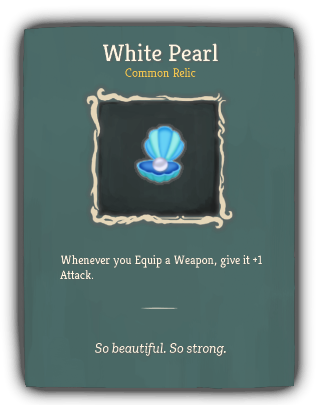
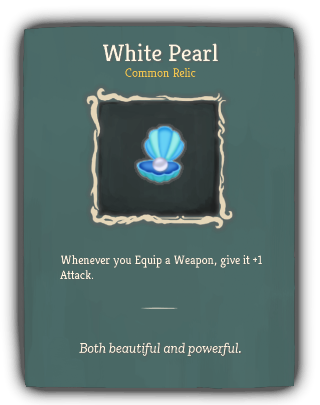
v.1.5.1 - Two new Weapon Relics.

Changed region(s): [[0.25, 0.8296, 0.75, 0.8889]]

diff --git a/exported/index.html b/exported/index.html
@@ -997,6 +997,17 @@
     </tr>
 
     <tr>
+        <td><a href="relics/popup/blackbeard-Spearhead.png">Spearhead</a></td>
+        <td><img src="relics/blackbeard-Spearhead.png" width="128" height="128"><a
+                href="relics/popup/blackbeard-Spearhead.png"><img src="relics/small-popup/blackbeard-Spearhead.png"
+                                                                  class="popup"></a></td>
+        <td>Common</td>
+        <td>Blackbeard_black</td>
+        <td>If a Weapon has 1 Durability, it deals 3 damage more.</td>
+        <td>The durability of your Weapon ends... and so does the life of your enemy.</td>
+    </tr>
+
+    <tr>
         <td><a href="relics/popup/blackbeard-TreasureChest.png">Treasure Chest</a></td>
         <td><img src="relics/blackbeard-TreasureChest.png" width="128" height="128"><a
                 href="relics/popup/blackbeard-TreasureChest.png"><img
@@ -1015,7 +1026,20 @@
         <td>Common</td>
         <td>Blackbeard_black</td>
         <td>Whenever you Equip a Weapon, give it +1 Attack.</td>
-        <td>So beautiful. So strong.</td>
+        <td>Both beautiful and powerful.</td>
+    </tr>
+
+    <tr>
+        <td><a href="relics/popup/blackbeard-DualWielding.png">Dual Wielding</a></td>
+        <td><img src="relics/blackbeard-DualWielding.png" width="128" height="128"><a
+                href="relics/popup/blackbeard-DualWielding.png"><img
+                src="relics/small-popup/blackbeard-DualWielding.png" class="popup"></a></td>
+        <td>Uncommon</td>
+        <td>Blackbeard_black</td>
+        <td>Your attacks now use two rightmost Weapons.</td>
+        <td>Blackbeard's right arm is much stronger than his left arm. But when in need he can dual wield Weapons with
+            ease.
+        </td>
     </tr>
 
     <tr>

diff --git a/exported/relics.html b/exported/relics.html
@@ -52,6 +52,17 @@
     </tr>
 
     <tr>
+        <td><a href="relics/popup/blackbeard-Spearhead.png">Spearhead</a></td>
+        <td><img src="relics/blackbeard-Spearhead.png" width="128" height="128"><a
+                href="relics/popup/blackbeard-Spearhead.png"><img src="relics/small-popup/blackbeard-Spearhead.png"
+                                                                  class="popup"></a></td>
+        <td>Common</td>
+        <td>Blackbeard_black</td>
+        <td>If a Weapon has 1 Durability, it deals 3 damage more.</td>
+        <td>The durability of your Weapon ends... and so does the life of your enemy.</td>
+    </tr>
+
+    <tr>
         <td><a href="relics/popup/blackbeard-TreasureChest.png">Treasure Chest</a></td>
         <td><img src="relics/blackbeard-TreasureChest.png" width="128" height="128"><a
                 href="relics/popup/blackbeard-TreasureChest.png"><img
@@ -70,7 +81,20 @@
         <td>Common</td>
         <td>Blackbeard_black</td>
         <td>Whenever you Equip a Weapon, give it +1 Attack.</td>
-        <td>So beautiful. So strong.</td>
+        <td>Both beautiful and powerful.</td>
+    </tr>
+
+    <tr>
+        <td><a href="relics/popup/blackbeard-DualWielding.png">Dual Wielding</a></td>
+        <td><img src="relics/blackbeard-DualWielding.png" width="128" height="128"><a
+                href="relics/popup/blackbeard-DualWielding.png"><img
+                src="relics/small-popup/blackbeard-DualWielding.png" class="popup"></a></td>
+        <td>Uncommon</td>
+        <td>Blackbeard_black</td>
+        <td>Your attacks now use two rightmost Weapons.</td>
+        <td>Blackbeard's right arm is much stronger than his left arm. But when in need he can dual wield Weapons with
+            ease.
+        </td>
     </tr>
 
     <tr>

diff --git a/src/main/java/blackbeard/powers/WeaponPower.java b/src/main/java/blackbeard/powers/WeaponPower.java
@@ -2,6 +2,7 @@ package blackbeard.powers;
 
 import blackbeard.enums.WeaponsToUseEnum;
 import blackbeard.orbs.WeaponOrb;
+import blackbeard.relics.DualWielding;
 import com.megacrit.cardcrawl.actions.common.RemoveSpecificPowerAction;
 import com.megacrit.cardcrawl.actions.utility.UseCardAction;
 import com.megacrit.cardcrawl.cards.AbstractCard;
@@ -44,14 +45,25 @@ public class WeaponPower extends AbstractPower {
             WeaponsToUseEnum weaponsToUse = WeaponsToUseEnum.ONLY_RIGHTMOST_WEAPON;
             if (AbstractDungeon.player.hasPower(SwordDancePower.POWER_ID)) {
                 weaponsToUse = WeaponsToUseEnum.ALL_WEAPONS;
+            } else if (AbstractDungeon.player.hasRelic(DualWielding.ID)) {
+                weaponsToUse = WeaponsToUseEnum.TWO_WEAPONS;
             }
+            int weaponsUsedCounter = 0;
             for (AbstractOrb o : AbstractDungeon.player.orbs) {
                 if (o instanceof WeaponOrb) {
                     WeaponOrb weaponOrb = (WeaponOrb) o;
                     if (!weaponOrb.isJustAddedUsingAttackCard()) {
                         weaponOrb.use();
+                        weaponsUsedCounter++;
                     }
                     if (weaponsToUse.equals(WeaponsToUseEnum.ONLY_RIGHTMOST_WEAPON)) {
+                        break;
+                    }
+                    if (weaponsToUse.equals(WeaponsToUseEnum.TWO_WEAPONS) && weaponsUsedCounter == 2) {
+                        DualWielding dualWielding = (DualWielding) AbstractDungeon.player.getRelic(DualWielding.ID);
+                        if (dualWielding != null) {
+                            dualWielding.flash();
+                        }
                         break;
                     }
                 }
@@ -140,14 +152,21 @@ public class WeaponPower extends AbstractPower {
             WeaponsToUseEnum weaponsToUse = WeaponsToUseEnum.ONLY_RIGHTMOST_WEAPON;
             if (AbstractDungeon.player.hasPower(SwordDancePower.POWER_ID)) {
                 weaponsToUse = WeaponsToUseEnum.ALL_WEAPONS;
+            } else if (AbstractDungeon.player.hasRelic(DualWielding.ID)) {
+                weaponsToUse = WeaponsToUseEnum.TWO_WEAPONS;
             }
 
             int weaponAttack = 0;
+            int weaponsUsedCounter = 0;
             for (AbstractOrb o : AbstractDungeon.player.orbs) {
                 if (o instanceof WeaponOrb) {
                     WeaponOrb weaponOrb = (WeaponOrb) o;
-                    weaponAttack += weaponOrb.getAttack();
+                    weaponAttack += weaponOrb.getDamageToDeal();
+                    weaponsUsedCounter++;
                     if (weaponsToUse.equals(WeaponsToUseEnum.ONLY_RIGHTMOST_WEAPON)) {
+                        break;
+                    }
+                    if (weaponsToUse.equals(WeaponsToUseEnum.TWO_WEAPONS) && weaponsUsedCounter == 2) {
                         break;
                     }
                 }

diff --git a/src/main/java/blackbeard/orbs/WeaponOrb.java b/src/main/java/blackbeard/orbs/WeaponOrb.java
@@ -2,6 +2,7 @@ package blackbeard.orbs;
 
 import blackbeard.powers.ArmorUpPower;
 import blackbeard.powers.SalvagerPower;
+import blackbeard.relics.Spearhead;
 import com.badlogic.gdx.graphics.Color;
 import com.badlogic.gdx.graphics.g2d.SpriteBatch;
 import com.megacrit.cardcrawl.actions.common.GainBlockAction;
@@ -88,6 +89,14 @@ public abstract class WeaponOrb extends AbstractOrb {
 
     public int getDurability() {
         return durability;
+    }
+
+    public int getDamageToDeal() {
+        int additionalAttack = 0;
+        if (AbstractDungeon.player.hasRelic(Spearhead.ID) && durability == 1) {
+            additionalAttack += 3;
+        }
+        return attack + additionalAttack;
     }
 
     public boolean isJustAddedUsingAttackCard() {

diff --git a/src/main/java/blackbeard/relics/Spearhead.java b/src/main/java/blackbeard/relics/Spearhead.java
@@ -1,0 +1,20 @@
+package blackbeard.relics;
+
+import basemod.abstracts.CustomRelic;
+import blackbeard.TheBlackbeardMod;
+import com.badlogic.gdx.graphics.Texture;
+
+public class Spearhead extends CustomRelic {
+    public static final String ID = "blackbeard:Spearhead";
+
+    public Spearhead() {
+        super(ID, new Texture(TheBlackbeardMod.getRelicImagePath(ID)), new Texture(TheBlackbeardMod.getRelicOutlineImagePath(ID)), RelicTier.COMMON, LandingSound.MAGICAL);
+    }
+
+    /* Logic is in WeaponOrb::getDamageToDeal. */
+
+    @Override
+    public String getUpdatedDescription() {
+        return DESCRIPTIONS[0];
+    }
+}

diff --git a/src/main/java/blackbeard/relics/DualWielding.java b/src/main/java/blackbeard/relics/DualWielding.java
@@ -1,0 +1,20 @@
+package blackbeard.relics;
+
+import basemod.abstracts.CustomRelic;
+import blackbeard.TheBlackbeardMod;
+import com.badlogic.gdx.graphics.Texture;
+
+public class DualWielding extends CustomRelic {
+    public static final String ID = "blackbeard:DualWielding";
+
+    public DualWielding() {
+        super(ID, new Texture(TheBlackbeardMod.getRelicImagePath(ID)), new Texture(TheBlackbeardMod.getRelicOutlineImagePath(ID)), RelicTier.UNCOMMON, LandingSound.MAGICAL);
+    }
+
+    /* Logic is in WeaponPower. */
+
+    @Override
+    public String getUpdatedDescription() {
+        return DESCRIPTIONS[0];
+    }
+}

diff --git a/src/main/java/blackbeard/actions/DaggerAction.java b/src/main/java/blackbeard/actions/DaggerAction.java
@@ -24,7 +24,7 @@ public class DaggerAction extends AbstractGameAction {
     public void update() {
         if (this.duration == Settings.ACTION_DUR_FAST) {
 
-            AbstractDungeon.actionManager.addToBottom(new SwordBoomerangAction(AbstractDungeon.getMonsters().getRandomMonster(true), new DamageInfo(p, daggerOrb.getAttack(), DamageInfo.DamageType.THORNS), 1));
+            AbstractDungeon.actionManager.addToBottom(new SwordBoomerangAction(AbstractDungeon.getMonsters().getRandomMonster(true), new DamageInfo(p, daggerOrb.getDamageToDeal(), DamageInfo.DamageType.THORNS), 1));
 
             daggerOrb.use();
 

diff --git a/src/main/java/blackbeard/TheBlackbeardMod.java b/src/main/java/blackbeard/TheBlackbeardMod.java
@@ -170,6 +170,8 @@ public class TheBlackbeardMod implements PostInitializeSubscriber,
         BaseMod.addRelicToCustomPool(new PoorMathSkills(), AbstractCardEnum.BLACKBEARD_BLACK);
         BaseMod.addRelicToCustomPool(new PowderCan(), AbstractCardEnum.BLACKBEARD_BLACK);
         BaseMod.addRelicToCustomPool(new Soberminded(), AbstractCardEnum.BLACKBEARD_BLACK);
+        BaseMod.addRelicToCustomPool(new Spearhead(), AbstractCardEnum.BLACKBEARD_BLACK);
+        BaseMod.addRelicToCustomPool(new DualWielding(), AbstractCardEnum.BLACKBEARD_BLACK);
 
         logger.info("Done editing relics");
     }

diff --git a/src/main/java/blackbeard/enums/WeaponsToUseEnum.java b/src/main/java/blackbeard/enums/WeaponsToUseEnum.java
@@ -1,5 +1,5 @@
 package blackbeard.enums;
 
 public enum WeaponsToUseEnum {
-    ALL_WEAPONS, ONLY_RIGHTMOST_WEAPON;
+    ALL_WEAPONS, TWO_WEAPONS, ONLY_RIGHTMOST_WEAPON;
 }

diff --git a/exported/index.md b/exported/index.md
@@ -100,8 +100,10 @@
 | ![](relics/blackbeard-LoadTheCannons.png) | Load The Cannons | Starter | Blackbeard_black | At the start of each combat, add a Cannonball card to your hand. | Ready... Aim... Fire!!! |
 | ![](relics/blackbeard-CannonballsOfSteel.png) | Cannonballs Of Steel | Common | Blackbeard_black | Your Cannonballs deal #b2 more damage. (Works with every type of Cannonball.) | Much stronger than regular cannonballs. |
 | ![](relics/blackbeard-HipFlask.png) | HipFlask | Common | Blackbeard_black | At the start of each combat, gain #b1 Resistance. | Very handy. |
+| ![](relics/blackbeard-Spearhead.png) | Spearhead | Common | Blackbeard_black | If a Weapon has 1 Durability, it deals 3 damage more. | The durability of your Weapon ends... and so does the life of your enemy. |
 | ![](relics/blackbeard-TreasureChest.png) | Treasure Chest | Common | Blackbeard_black | Gain 20 Gold after every battle. | This treasure chest contains untold riches. |
-| ![](relics/blackbeard-WhitePearl.png) | White Pearl | Common | Blackbeard_black | Whenever you Equip a Weapon, give it +1 Attack. | So beautiful. So strong. |
+| ![](relics/blackbeard-WhitePearl.png) | White Pearl | Common | Blackbeard_black | Whenever you Equip a Weapon, give it +1 Attack. | Both beautiful and powerful. |
+| ![](relics/blackbeard-DualWielding.png) | Dual Wielding | Uncommon | Blackbeard_black | Your attacks now use two rightmost Weapons. | Blackbeard's right arm is much stronger than his left arm. But when in need he can dual wield Weapons with ease. |
 | ![](relics/blackbeard-GoldenRing.png) | Golden Ring | Uncommon | Blackbeard_black | At the start of each combat, gain 1 Artifact. | Suitable for every pirate. |
 | ![](relics/blackbeard-Penknife.png) | Penknife | Uncommon | Blackbeard_black | Every 8th Attack that uses at least one Weapon deals double damage. | If you have it in your pocket, don't forget to use it. |
 | ![](relics/blackbeard-PowderCan.png) | Powder Can | Uncommon | Blackbeard_black | At the start of each combat, equip a 0 / 1 Weapon. When it is destroyed, deal 8 damage to ALL enemies. | Just like a Powder Keg, but smaller. |

diff --git a/exported/relics.md b/exported/relics.md
@@ -3,8 +3,10 @@
 | ![](relics/blackbeard-LoadTheCannons.png) | Load The Cannons | Starter | Blackbeard_black | At the start of each combat, add a Cannonball card to your hand. | Ready... Aim... Fire!!! |
 | ![](relics/blackbeard-CannonballsOfSteel.png) | Cannonballs Of Steel | Common | Blackbeard_black | Your Cannonballs deal #b2 more damage. (Works with every type of Cannonball.) | Much stronger than regular cannonballs. |
 | ![](relics/blackbeard-HipFlask.png) | HipFlask | Common | Blackbeard_black | At the start of each combat, gain #b1 Resistance. | Very handy. |
+| ![](relics/blackbeard-Spearhead.png) | Spearhead | Common | Blackbeard_black | If a Weapon has 1 Durability, it deals 3 damage more. | The durability of your Weapon ends... and so does the life of your enemy. |
 | ![](relics/blackbeard-TreasureChest.png) | Treasure Chest | Common | Blackbeard_black | Gain 20 Gold after every battle. | This treasure chest contains untold riches. |
-| ![](relics/blackbeard-WhitePearl.png) | White Pearl | Common | Blackbeard_black | Whenever you Equip a Weapon, give it +1 Attack. | So beautiful. So strong. |
+| ![](relics/blackbeard-WhitePearl.png) | White Pearl | Common | Blackbeard_black | Whenever you Equip a Weapon, give it +1 Attack. | Both beautiful and powerful. |
+| ![](relics/blackbeard-DualWielding.png) | Dual Wielding | Uncommon | Blackbeard_black | Your attacks now use two rightmost Weapons. | Blackbeard's right arm is much stronger than his left arm. But when in need he can dual wield Weapons with ease. |
 | ![](relics/blackbeard-GoldenRing.png) | Golden Ring | Uncommon | Blackbeard_black | At the start of each combat, gain 1 Artifact. | Suitable for every pirate. |
 | ![](relics/blackbeard-Penknife.png) | Penknife | Uncommon | Blackbeard_black | Every 8th Attack that uses at least one Weapon deals double damage. | If you have it in your pocket, don't forget to use it. |
 | ![](relics/blackbeard-PowderCan.png) | Powder Can | Uncommon | Blackbeard_black | At the start of each combat, equip a 0 / 1 Weapon. When it is destroyed, deal 8 damage to ALL enemies. | Just like a Powder Keg, but smaller. |
